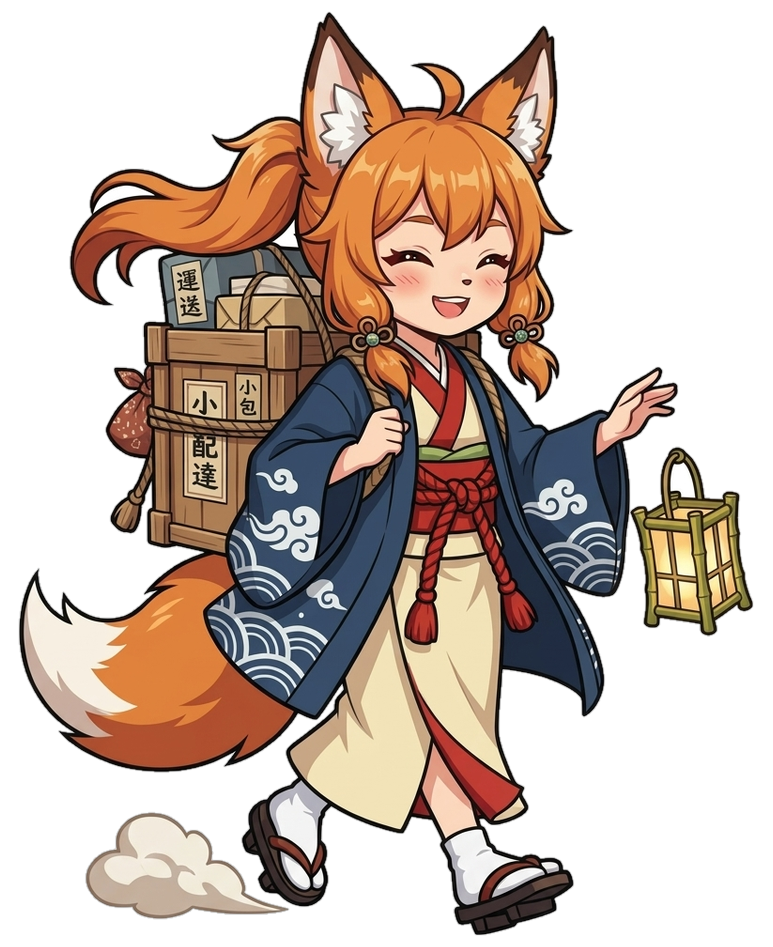
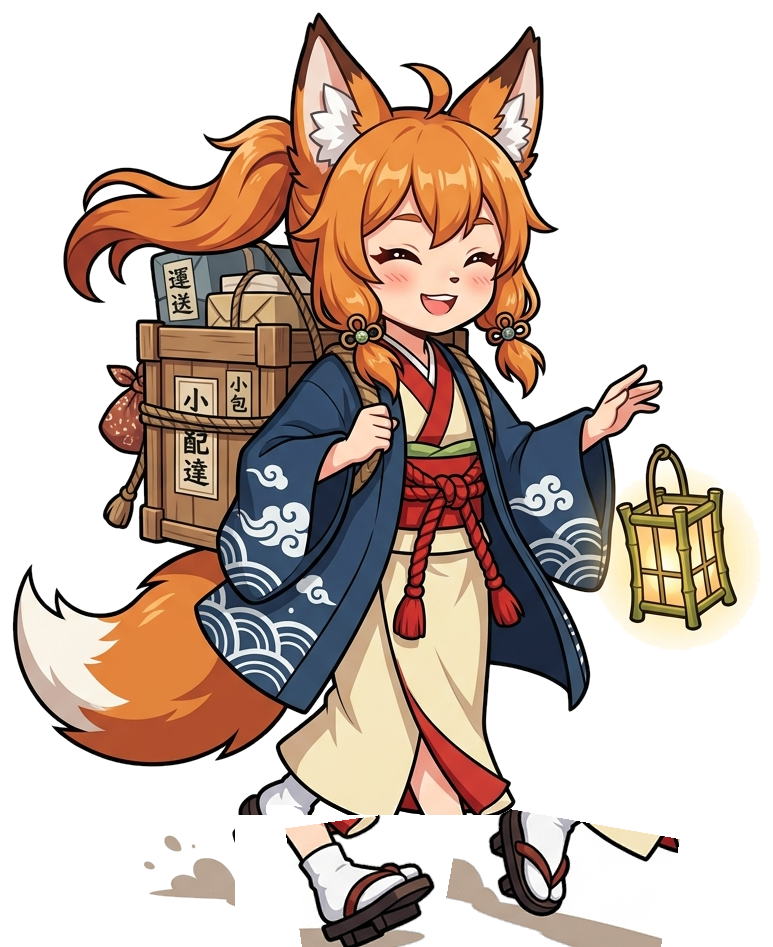
Fix katana slash and damage numbers double camera offset, fix runner facing direction, and fix walk frame 2 foot swap

diff --git a/js/renderer.js b/js/renderer.js
@@ -479,9 +479,9 @@ window.RENDERER = (() => {
     // shooter.png: 原生吐火面向 RIGHT (1) -> dirTowardsPlayer === 1 ? 1 : -1
     // boss, tank: 對稱/正面朝向 -> 跟隨玩家方位微側
     let scaleX = 1;
-    if (e.type === "ghost" || e.type === "runner" || e.type === "mis") {
+    if (e.type === "ghost" || e.type === "mis") {
       scaleX = (dirTowardsPlayer === -1) ? 1 : -1;
-    } else if (e.type === "shooter") {
+    } else if (e.type === "runner" || e.type === "shooter") {
       scaleX = (dirTowardsPlayer === 1) ? 1 : -1;
     } else {
       scaleX = (dirTowardsPlayer === -1) ? 1 : -1;
@@ -674,7 +674,6 @@ window.RENDERER = (() => {
   function drawDamageNumbers() {
     ctx.save();
     for (const d of dmgNumbers) {
-      const sx = d.x - camX, sy = d.y - camY;
       const alpha = clamp(d.life / 0.3, 0, 1);
       ctx.globalAlpha = alpha;
       ctx.textAlign = "center";
@@ -682,10 +681,10 @@ window.RENDERER = (() => {
 
       ctx.strokeStyle = "#1a162b";
       ctx.lineWidth = 4;
-      ctx.strokeText(d.val, sx, sy);
+      ctx.strokeText(d.val, d.x, d.y);
 
       ctx.fillStyle = d.color;
-      ctx.fillText(d.val, sx, sy);
+      ctx.fillText(d.val, d.x, d.y);
     }
     ctx.restore();
   }
@@ -694,9 +693,8 @@ window.RENDERER = (() => {
     ctx.save();
     for (const s of slashArcs) {
       const alpha = s.life / s.maxLife;
-      const sx = s.x - camX, sy = s.y - camY;
       ctx.save();
-      ctx.translate(sx, sy);
+      ctx.translate(s.x, s.y);
       ctx.rotate(s.angle);
 
       // 金黃金箔斬擊流光
